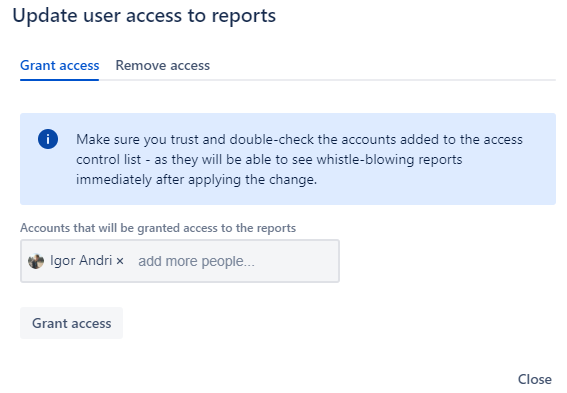
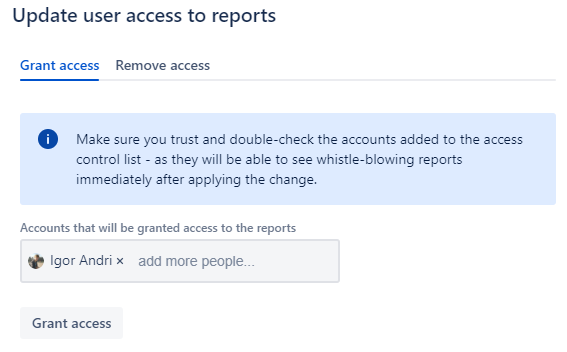
Update pic again

diff --git a/ww.html b/ww.html
@@ -81,7 +81,7 @@
           <h2 class="display-5">Kick-off Compliance team that reviews and acts on tips</h2>
           <p class="lead">Use Atlassian built-in user management system and identities to assemble your Compliance team and grant them access to reports. They will be able to perform the submission review, update the status and communicate back with the reporters without risk to reveal whistleblower identity. All actions of the team are auditable and exportable.</p>
         </div>
-        <div class="bg-white box-shadow mx-auto" style="width: 567px; height:393px; border-radius: 21px 21px 0 0;">
+        <div class="bg-white box-shadow mx-auto" style="width: 567px; height:352px; border-radius: 21px 21px 0 0;">
           <img class="block" src="img/ww-access.png" width="100%" height="auto" >
         </div>
       </div>
